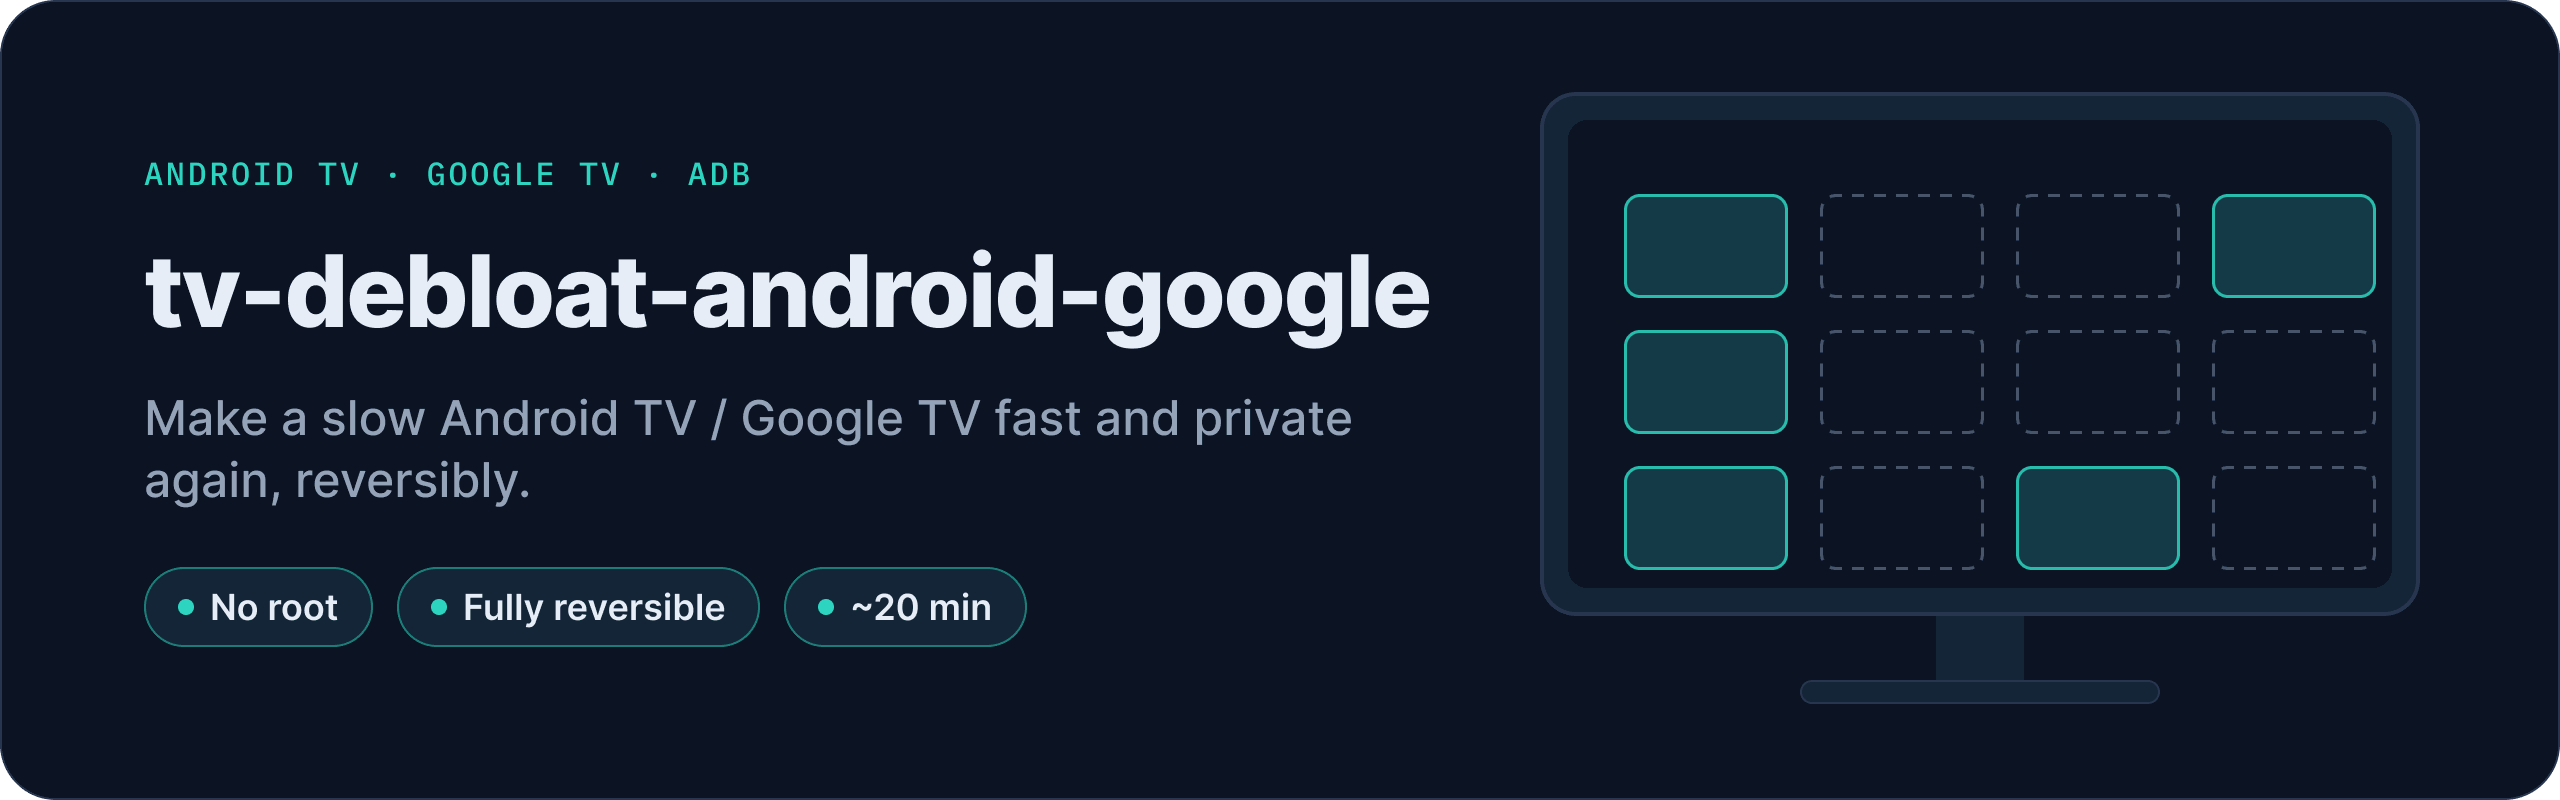
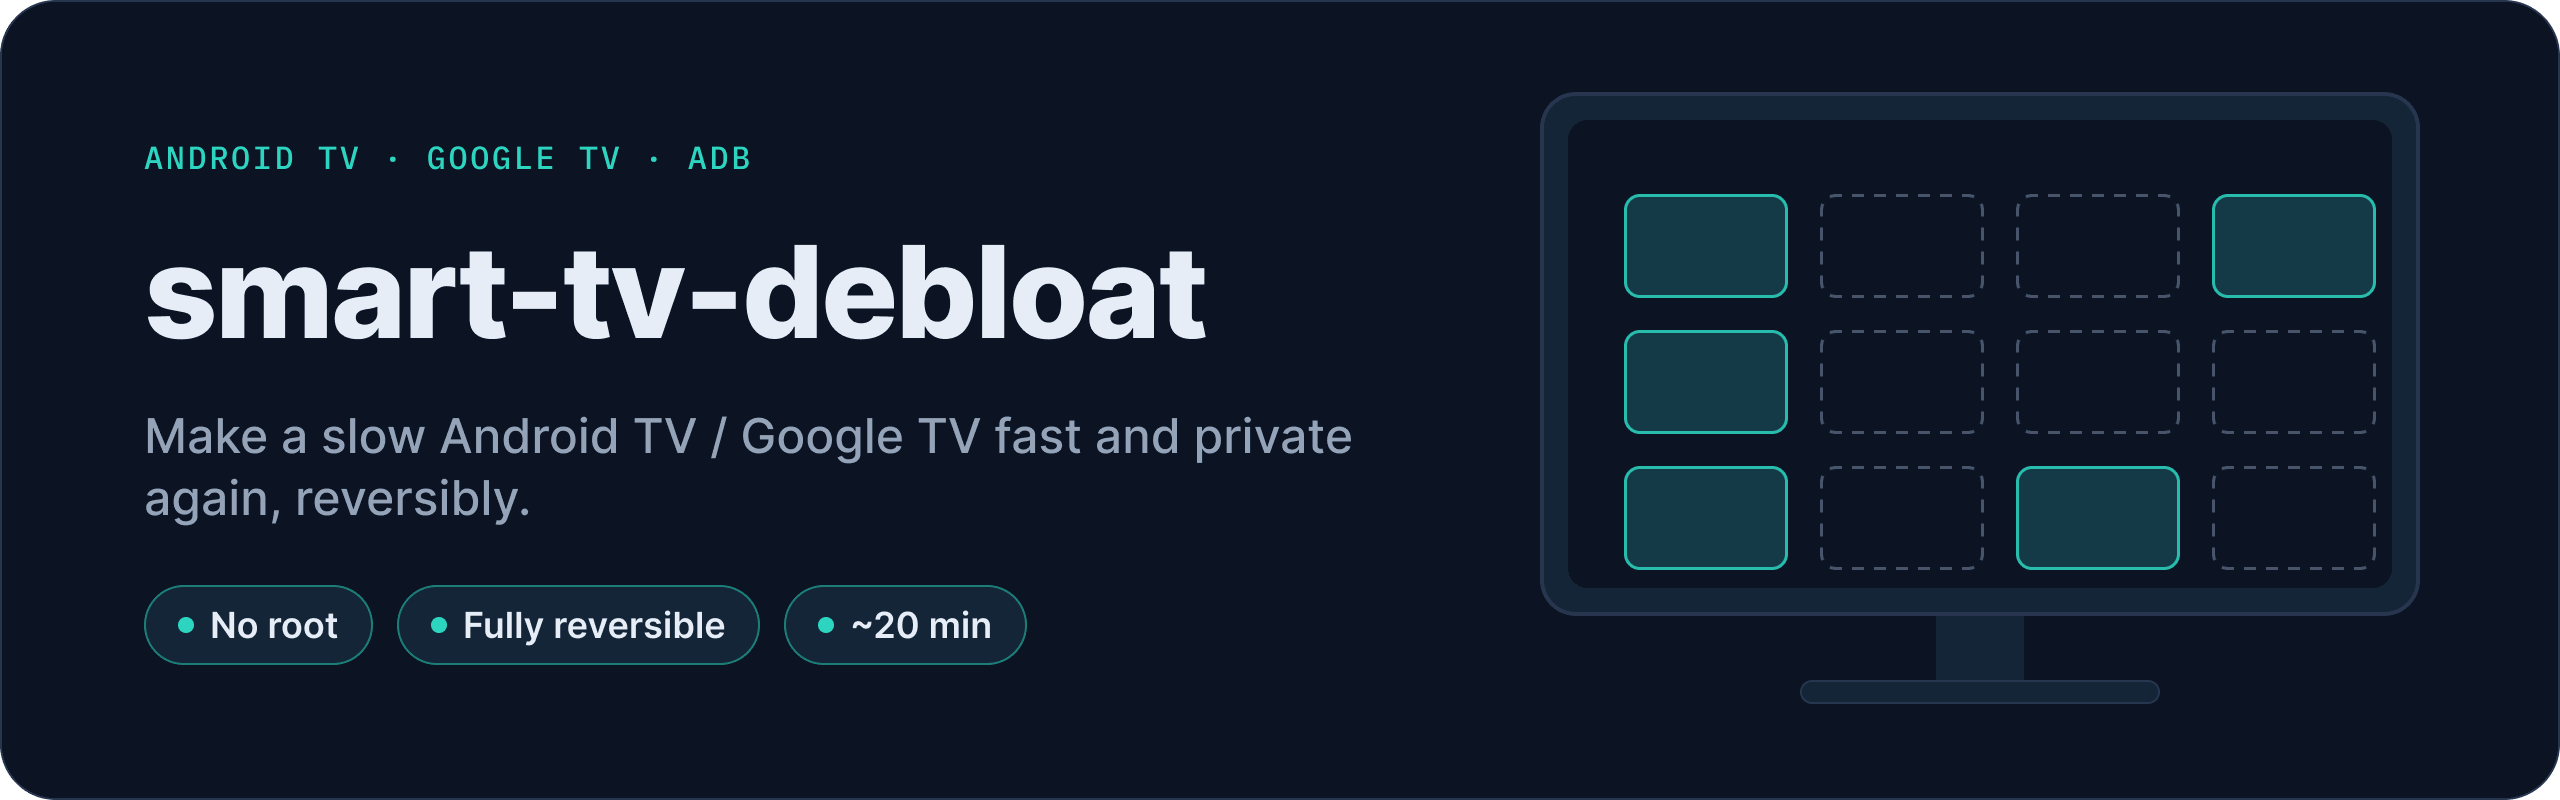
chore: rename project to smart-tv-debloat
New name without platform trademarks in it. The hero banner, README, clone
commands and the walkthrough's download path follow; the walkthrough now
also says that GitHub's ZIP contains a smart-tv-debloat-main folder.
Scope is unchanged: Android TV / Google TV, verified on TCL.

diff --git a/README.md b/README.md
@@ -1,8 +1,8 @@
 <p align="center">
-  <img src="docs/assets/hero-banner.png" width="1000" alt="tv-debloat-android-google: Make a slow Android TV / Google TV fast and private again, reversibly. No root, fully reversible, about 20 minutes.">
+  <img src="docs/assets/hero-banner.png" width="1000" alt="smart-tv-debloat: Make a slow Android TV / Google TV fast and private again, reversibly. No root, fully reversible, about 20 minutes.">
 </p>
 
-**tv-debloat-android-google** removes the preinstalled apps that eat the RAM of Android TV / Google TV sets, speeds up
+**smart-tv-debloat** removes the preinstalled apps that eat the RAM of Android TV / Google TV sets, speeds up
 the menus, and checks who can use the microphone. It uses only the official **ADB** tool: no root, no hacks, and
 every change can be undone. It's for anyone whose Android TV has become sluggish, whether you'd rather copy-paste
 commands in Windows `cmd` or run one script.
@@ -60,11 +60,11 @@ Which apps can use the microphone, when they last did, and whether anything is r
 **Windows (PowerShell 5.1 or 7)**, with [Platform Tools](docs/WALKTHROUGH.md#step-2-install-adb) installed:
 
 ```powershell
-git clone https://github.com/ilker-ekin/tv-debloat-android-google
+git clone https://github.com/ilker-ekin/smart-tv-debloat
 ```
 
 ```powershell
-cd tv-debloat-android-google
+cd smart-tv-debloat
 ```
 
 ```powershell
@@ -85,7 +85,7 @@ brew install android-platform-tools        # macOS; Debian/Ubuntu: sudo apt inst
 ```
 
 ```sh
-git clone https://github.com/ilker-ekin/tv-debloat-android-google && cd tv-debloat-android-google
+git clone https://github.com/ilker-ekin/smart-tv-debloat && cd smart-tv-debloat
 ```
 
 ```sh

diff --git a/docs/assets/README.md b/docs/assets/README.md
@@ -18,7 +18,7 @@ embeds it, so the repo stays readable without images.
 
 | File | Alt text | Text fallback |
 |---|---|---|
-| `hero-banner.png` | tv-debloat-android-google: Make a slow Android TV / Google TV fast and private again, reversibly. No root, fully reversible, about 20 minutes. | The README's first paragraph |
+| `hero-banner.png` | smart-tv-debloat: Make a slow Android TV / Google TV fast and private again, reversibly. No root, fully reversible, about 20 minutes. | The README's first paragraph |
 | `how-it-works.png` | How it works: a wired PC and a Wi-Fi TV on the same router connect over ADB on port 5555; then debloat, tweaks and reboot, privacy audit, optional launcher, and finally turn debugging off. | Mermaid block below |
 | `step-01-enable-developer-options.png` | Step 1: Enable Developer options, about 2 minutes | Step heading |
 | `step-02-install-adb.png` | Step 2: Install ADB, about 3 minutes | Step heading |

diff --git a/docs/WALKTHROUGH.md b/docs/WALKTHROUGH.md
@@ -342,11 +342,12 @@ The reference TV's numbers are in [RESULTS.md](RESULTS.md).
 
 ⏱ ~2 min · read-only: it changes nothing on the TV
 
-Download this repository (**Code → Download ZIP** on GitHub) and extract it, e.g. to `C:\tv-debloat-android-google`. Then,
+Download this repository (**Code → Download ZIP** on GitHub) and extract it to `C:\`. The ZIP contains a
+`smart-tv-debloat-main` folder: rename it to `C:\smart-tv-debloat`. Then,
 still in your `%USERPROFILE%\tcl-tv` window:
 
 ```cmd
-C:\tv-debloat-android-google\scripts\privacy-audit.bat %T%
+C:\smart-tv-debloat\scripts\privacy-audit.bat %T%
 ```
 
 ✅ **You should see** the report scroll by, ending with
